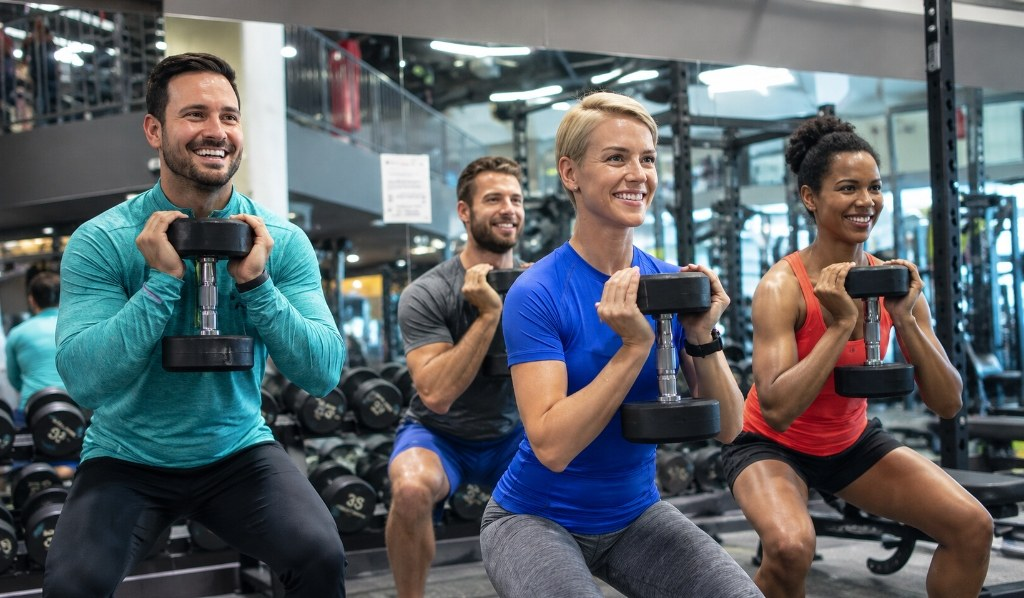
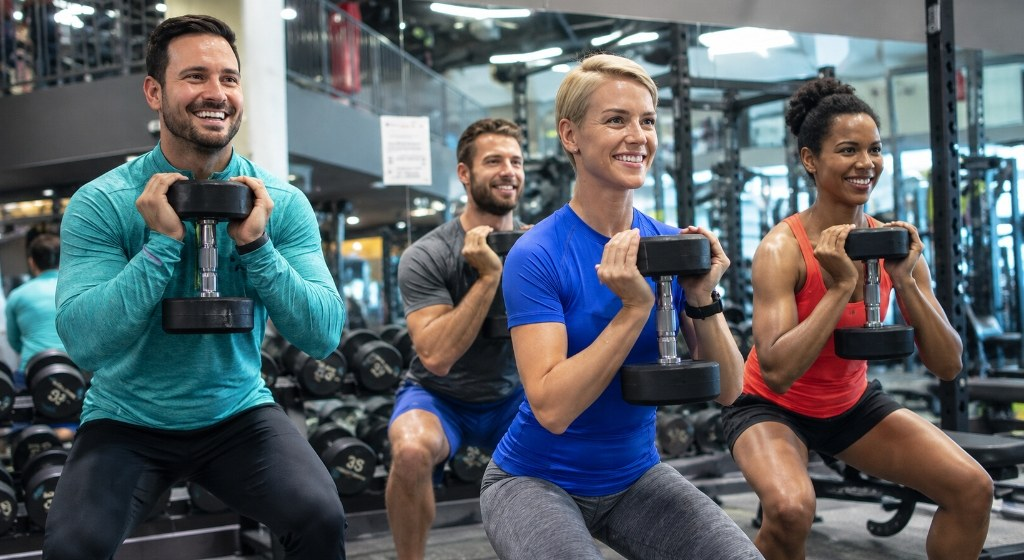
style: shift Online Group Classes card image upward and anchor to top safely

diff --git a/src/features/landing/components/HomeSection.jsx b/src/features/landing/components/HomeSection.jsx
@@ -635,7 +635,7 @@ export default function HomeSection({ onOpenLeadModal, onNavigateSection }) {
         </div>
 
         <div className="max-w-7xl mx-auto px-4 sm:px-6 lg:px-8 relative z-10">
-          
+
           {/* Section Header (Clean Light Theme) */}
           <div className="text-center max-w-3xl mx-auto mb-14 sm:mb-16">
             <motion.div
@@ -769,11 +769,11 @@ export default function HomeSection({ onOpenLeadModal, onNavigateSection }) {
 
             {/* Card 1: Personal Training (Background Image Card with Face-Clear Window) */}
             <div className="reveal-item reveal-stagger-1 rounded-3xl p-8 sm:p-10 relative flex flex-col justify-between overflow-hidden group shadow-2xl border border-slate-700/60 hover:-translate-y-1.5 transition-[transform,box-shadow] duration-250 min-h-[580px] bg-slate-900">
-              {/* Background Image positioned for optimal face clarity (mobile: 56% 15%, desktop: 70% 15%) */}
+              {/* Background Image positioned for optimal face clarity (mobile: 60% 15%, desktop: 70% 15%) */}
               <img
                 src="/images/home_personal_training.jpg"
                 alt="Personal trainer coaching athlete with barbell in fitness studio"
-                className="absolute inset-0 w-full h-full object-cover object-[56%_15%] sm:object-[70%_15%] group-hover:scale-105 transition-transform duration-700 ease-out pointer-events-none"
+                className="absolute inset-0 w-full h-full object-cover object-[60%_15%] sm:object-[70%_15%] group-hover:scale-105 transition-transform duration-700 ease-out pointer-events-none"
                 loading="lazy"
                 decoding="async"
               />
@@ -827,11 +827,11 @@ export default function HomeSection({ onOpenLeadModal, onNavigateSection }) {
 
             {/* Card 2: Online Group Classes (Background Image Card with Face-Clear Window) */}
             <div className="reveal-item reveal-stagger-2 rounded-3xl p-8 sm:p-10 relative flex flex-col justify-between overflow-hidden group shadow-2xl border border-slate-700/60 hover:-translate-y-1.5 transition-[transform,box-shadow] duration-250 min-h-[580px] bg-slate-900">
-              {/* Background Image positioned for optimal face clarity (mobile: shifted toward girl's face, desktop: untouched) */}
+              {/* Background Image positioned upward with top headroom preserved so no head is cut */}
               <img
                 src="/images/home_group_classes.jpg"
                 alt="Online group fitness class performing synchronized dumbbell workout"
-                className="absolute inset-0 w-full h-full object-cover object-[62%_20%] sm:object-[50%_25%] group-hover:scale-105 transition-transform duration-700 ease-out pointer-events-none"
+                className="absolute inset-0 w-full h-full object-cover object-[72%_top] sm:object-[80%_top] group-hover:scale-105 transition-transform duration-700 ease-out pointer-events-none"
                 loading="lazy"
                 decoding="async"
               />
@@ -991,7 +991,7 @@ export default function HomeSection({ onOpenLeadModal, onNavigateSection }) {
           {/* ================= FULL-WIDTH SHOWCASE BANNER: YOUR GOALS. YOUR FOCUS. ================= */}
           <div className="mb-20 sm:mb-24 reveal-item">
             <div className="relative rounded-2xl lg:rounded-3xl overflow-hidden bg-gradient-to-br from-[#0A121E] via-[#092229] to-[#0D1C2E] border border-teal-500/35 shadow-[0_20px_50px_-15px_rgba(8,34,41,0.6)] text-white group">
-              
+
               {/* Special Effects & Ambient Atmosphere */}
               <div className="absolute inset-0 bg-blueprint-grid opacity-15 pointer-events-none" />
               <div className="absolute -top-24 -left-24 w-80 h-80 bg-teal-500/15 rounded-full blur-[90px] pointer-events-none" />
@@ -999,10 +999,10 @@ export default function HomeSection({ onOpenLeadModal, onNavigateSection }) {
               <div className="absolute top-0 left-1/4 right-1/4 h-[1px] bg-gradient-to-r from-transparent via-teal-400/50 to-transparent" />
 
               <div className="relative z-10 grid lg:grid-cols-12 gap-6 lg:gap-8 items-stretch p-4 sm:p-6 lg:p-7">
-                
+
                 {/* Content Side: Slim, concise & perfectly balanced */}
                 <div className="lg:col-span-7 flex flex-col justify-center order-2 lg:order-1 py-1">
-                  
+
                   {/* Headline */}
                   <h2 className="font-heading text-2xl sm:text-3xl lg:text-4xl font-black text-white leading-tight tracking-tight">
                     Your Goals.{' '}
